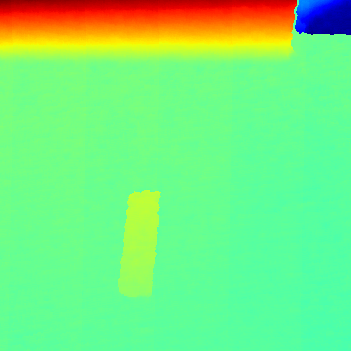
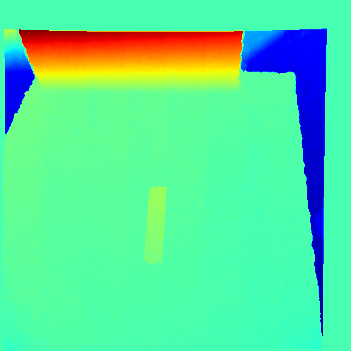
Get custom resizing transform working

diff --git a/deep_twist/data/transforms.py b/deep_twist/data/transforms.py
@@ -1,5 +1,6 @@
 import torch
-from torchvision import transforms
+import numpy as np
+from skimage import transform
 
 """
 class RandomTranslate(object):
@@ -17,23 +18,27 @@ class RandomTranslate(object):
         new_gt[1] += y_shift
         return new_img, new_gt
 
+"""
 
 class Resize(object):
     def __init__(self, new_size):
         self.new_size = new_size
 
     def __call__(self, sample):
-        img, gt = sample
-        h, w = img.size[:2]
-        new_img = transforms.functional.resize(img, (self.new_size,
-            self.new_size)) 
-        new_gt = np.copy(gt)
-        new_gt[0] *= self.new_size/w
-        new_gt[1] *= self.new_size/h
-        new_gt[3] *= self.new_size/w
-        new_gt[4] *= self.new_size/h
-        return new_img, new_gt
-"""
+        rgb, depth, pos = sample
+        h, w = rgb.shape[:2]
+        new_rgb = transform.resize(rgb, (self.new_size, self.new_size), 
+                preserve_range=True, mode='constant').astype('uint8')
+        new_depth = transform.resize(depth, (self.new_size, self.new_size),
+                preserve_range=True, mode='constant')
+        new_pos = []
+        for rect in pos:
+            new_pos.append((rect[0] * self.new_size/w,
+                            rect[1] * self.new_size/h,
+                            rect[2],
+                            rect[3] * self.new_size/w,
+                            rect[4] * self.new_size/h))
+        return new_rgb, new_depth, new_pos
 
 
 class CenterCrop(object):

diff --git a/scripts/main.py b/scripts/main.py
@@ -7,9 +7,9 @@ from skimage import io
 from deep_twist.data import dataset, transforms, utils
 
 
-train_dataset = dataset.CornellGraspDataset(root_dir='cornell', transform=transforms.CenterCrop(351))
+train_dataset = dataset.CornellGraspDataset(root_dir='cornell',
+        transform=transforms.Resize(351))
 
-print(train_dataset[0][2][0])
 io.imsave('rgb.png', utils.draw_rectangle(train_dataset[0][0],
-    train_dataset[0][2][0]))
+          train_dataset[0][2][0]))
 plt.imsave('depth.png', train_dataset[0][1], cmap=plt.cm.jet)

diff --git a/deep_twist/data/dataset.py b/deep_twist/data/dataset.py
@@ -1,5 +1,6 @@
 import os
 import re
+import numpy as np
 from torch.utils.data import Dataset
 from torchvision import transforms
 from skimage import io
@@ -31,5 +32,6 @@ class CornellGraspDataset(Dataset):
         pos = utils.parse_rects(pos_path, id)
 
         if self.transform:
+            depth_scale = np.max(depth)
             rgb, depth, pos = self.transform((rgb, depth, pos))
         return rgb, depth, pos
